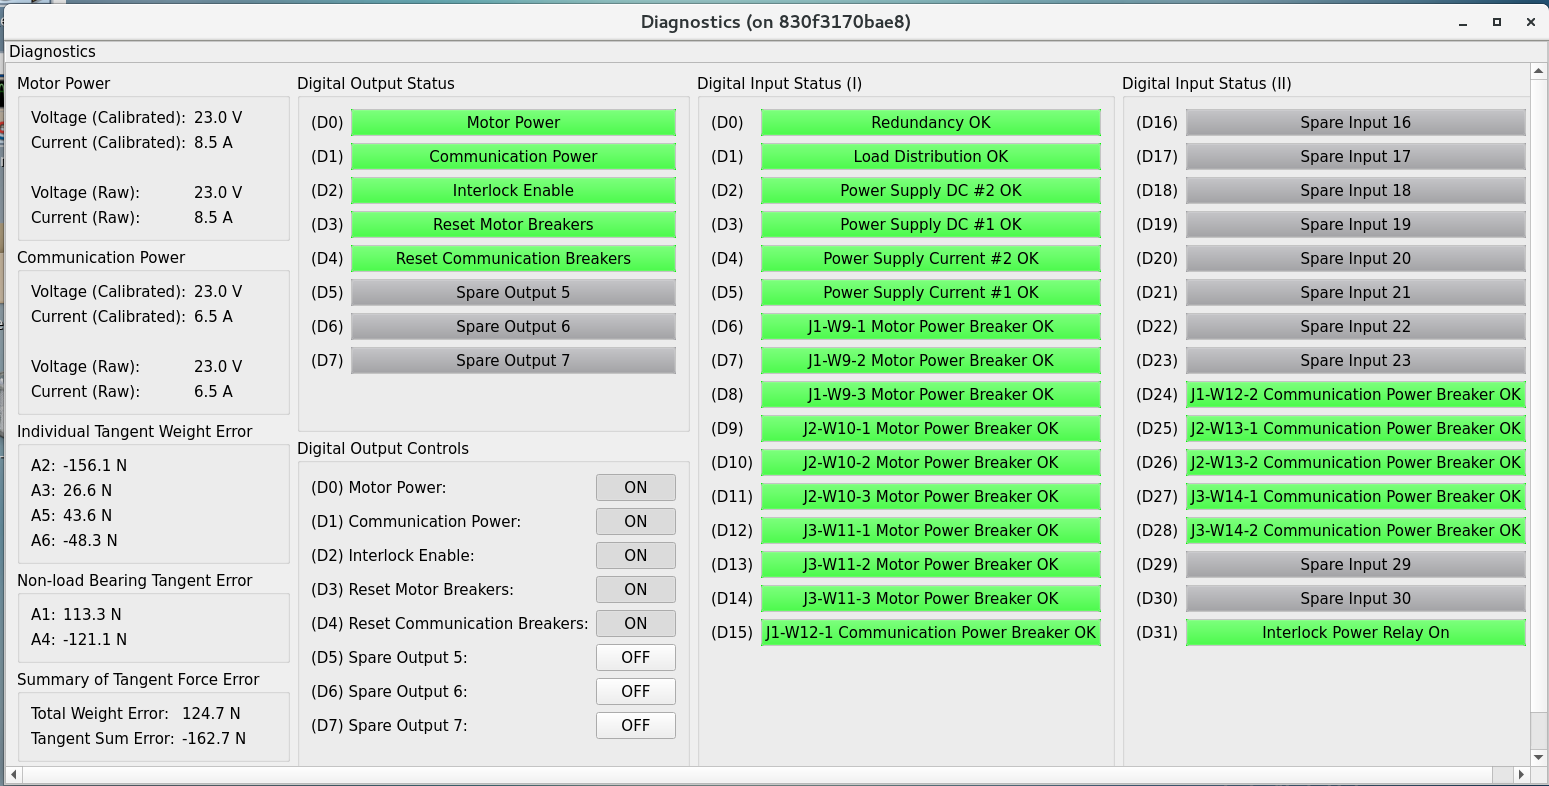
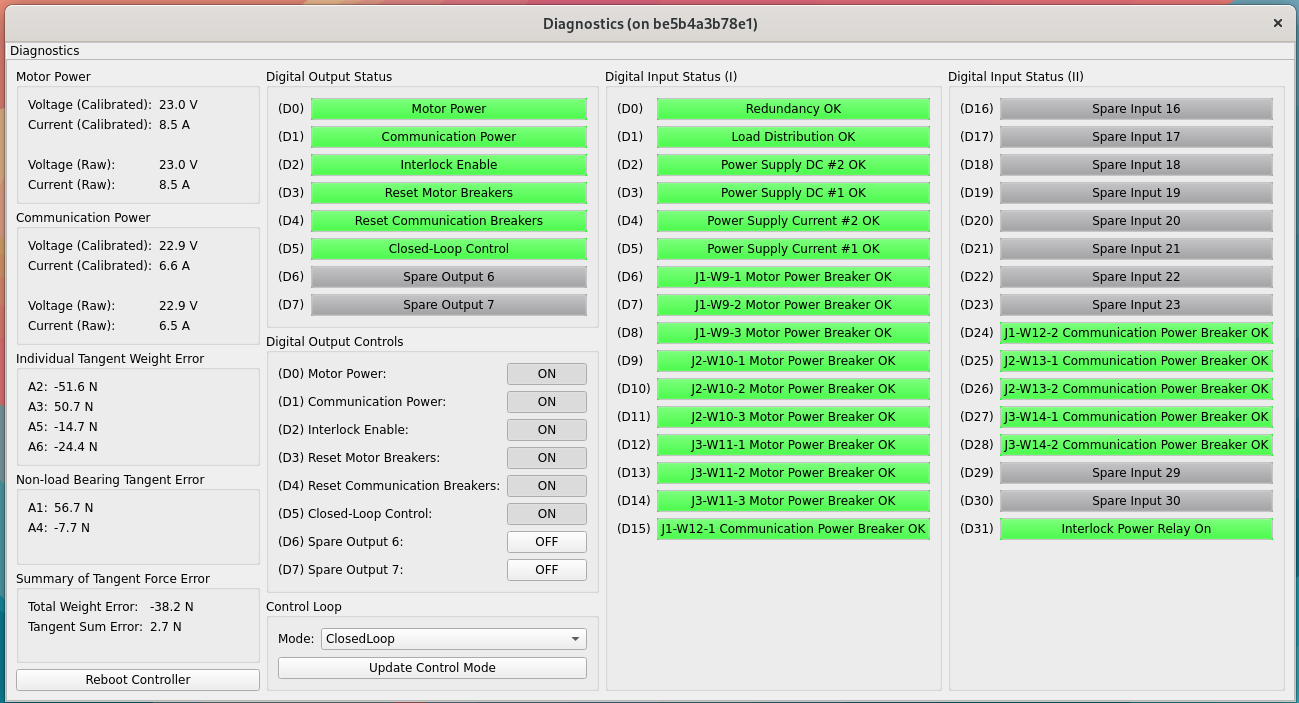
Update the documents.

diff --git a/doc/user-guide/user-guide.rst b/doc/user-guide/user-guide.rst
@@ -377,6 +377,10 @@ It is noted that only when the D2 ("interlock enable" in digital output) and D31
 This implies that you could manually toggle on/off the D0 and D1 to check the interlock signal exists or not.
 If you do so, you always need to turn on the communication power first followed by the motor power, and turn off the motor power first followed by the communication power.
 
+You can use the **Update Control Mode** button to change the current mode (see **Mode** combo selection) in closed-loop control mode.
+You might need to use this function in caution because this might affect the use of hardware.
+If you want to check the ILC state, you would need to make sure the mode is in idle.
+
 The diagnostics table also contains a button to reboot the cell controller.
 
 .. _lsst.ts.m2gui-user_alarm_warn:
@@ -459,6 +463,7 @@ The **Reset ILC States** button resets all the current ILCs to NaN, which is rec
 The **Check ILC States** button queries all the **Unknown** ILCs to get the current states.
 The **Enable ILC States** button transitions all the ILCs to the **Enabled** state.
 These buttons can be used to debug or check the ILC states when the CSC is using the hardware at the same time.
+Note the control loop needs to be in idle to avoid the disruption with the reading of ILC data.
 
 .. _lsst.ts.m2gui-user_net_force_moment:
 

diff --git a/doc/version_history.rst b/doc/version_history.rst
@@ -6,6 +6,21 @@
 Version History
 ##################
 
+.. _lsst.ts.m2gui-1.0.1:
+
+-------------
+1.0.1
+-------------
+
+* Improve the **README.md**.
+* Update the ``MainWindow._callback_disconnect()`` to check the current commander.
+* Add the ``SignalClosedLoopControlMode`` and update ``Model._process_event()`` to send the signal.
+* Add the ``TabOverview._set_signal_closed_loop_control_mode()``. 
+* Add the ``TabIlcStatus._is_closed_loop_control_mode_in_idle()``.
+* Update the **TabDiagnostics** to support the control of closed-loop control mode.
+* Add the ``TabSettings._callback_time_out()`` to write the external elevation angle continuously.
+* Update the user manual and UML diagrams.
+
 .. _lsst.ts.m2gui-1.0.0:
 
 -------------

diff --git a/doc/developer-guide/developer-guide.rst b/doc/developer-guide/developer-guide.rst
@@ -93,6 +93,7 @@ The available Qt signals are listed below:
 * **SignalPosition** sends the rigid body position.
 * **SignalScript** sends the status of script progress.
 * **SignalIlcStatus** sends the status of inner-loop controller (ILC).
+* **SignalClosedLoopControlMode** sends the update status of closed-loop control mode.
 
 .. _lsst.ts.m2gui-modules_m2gui_layout:
 
